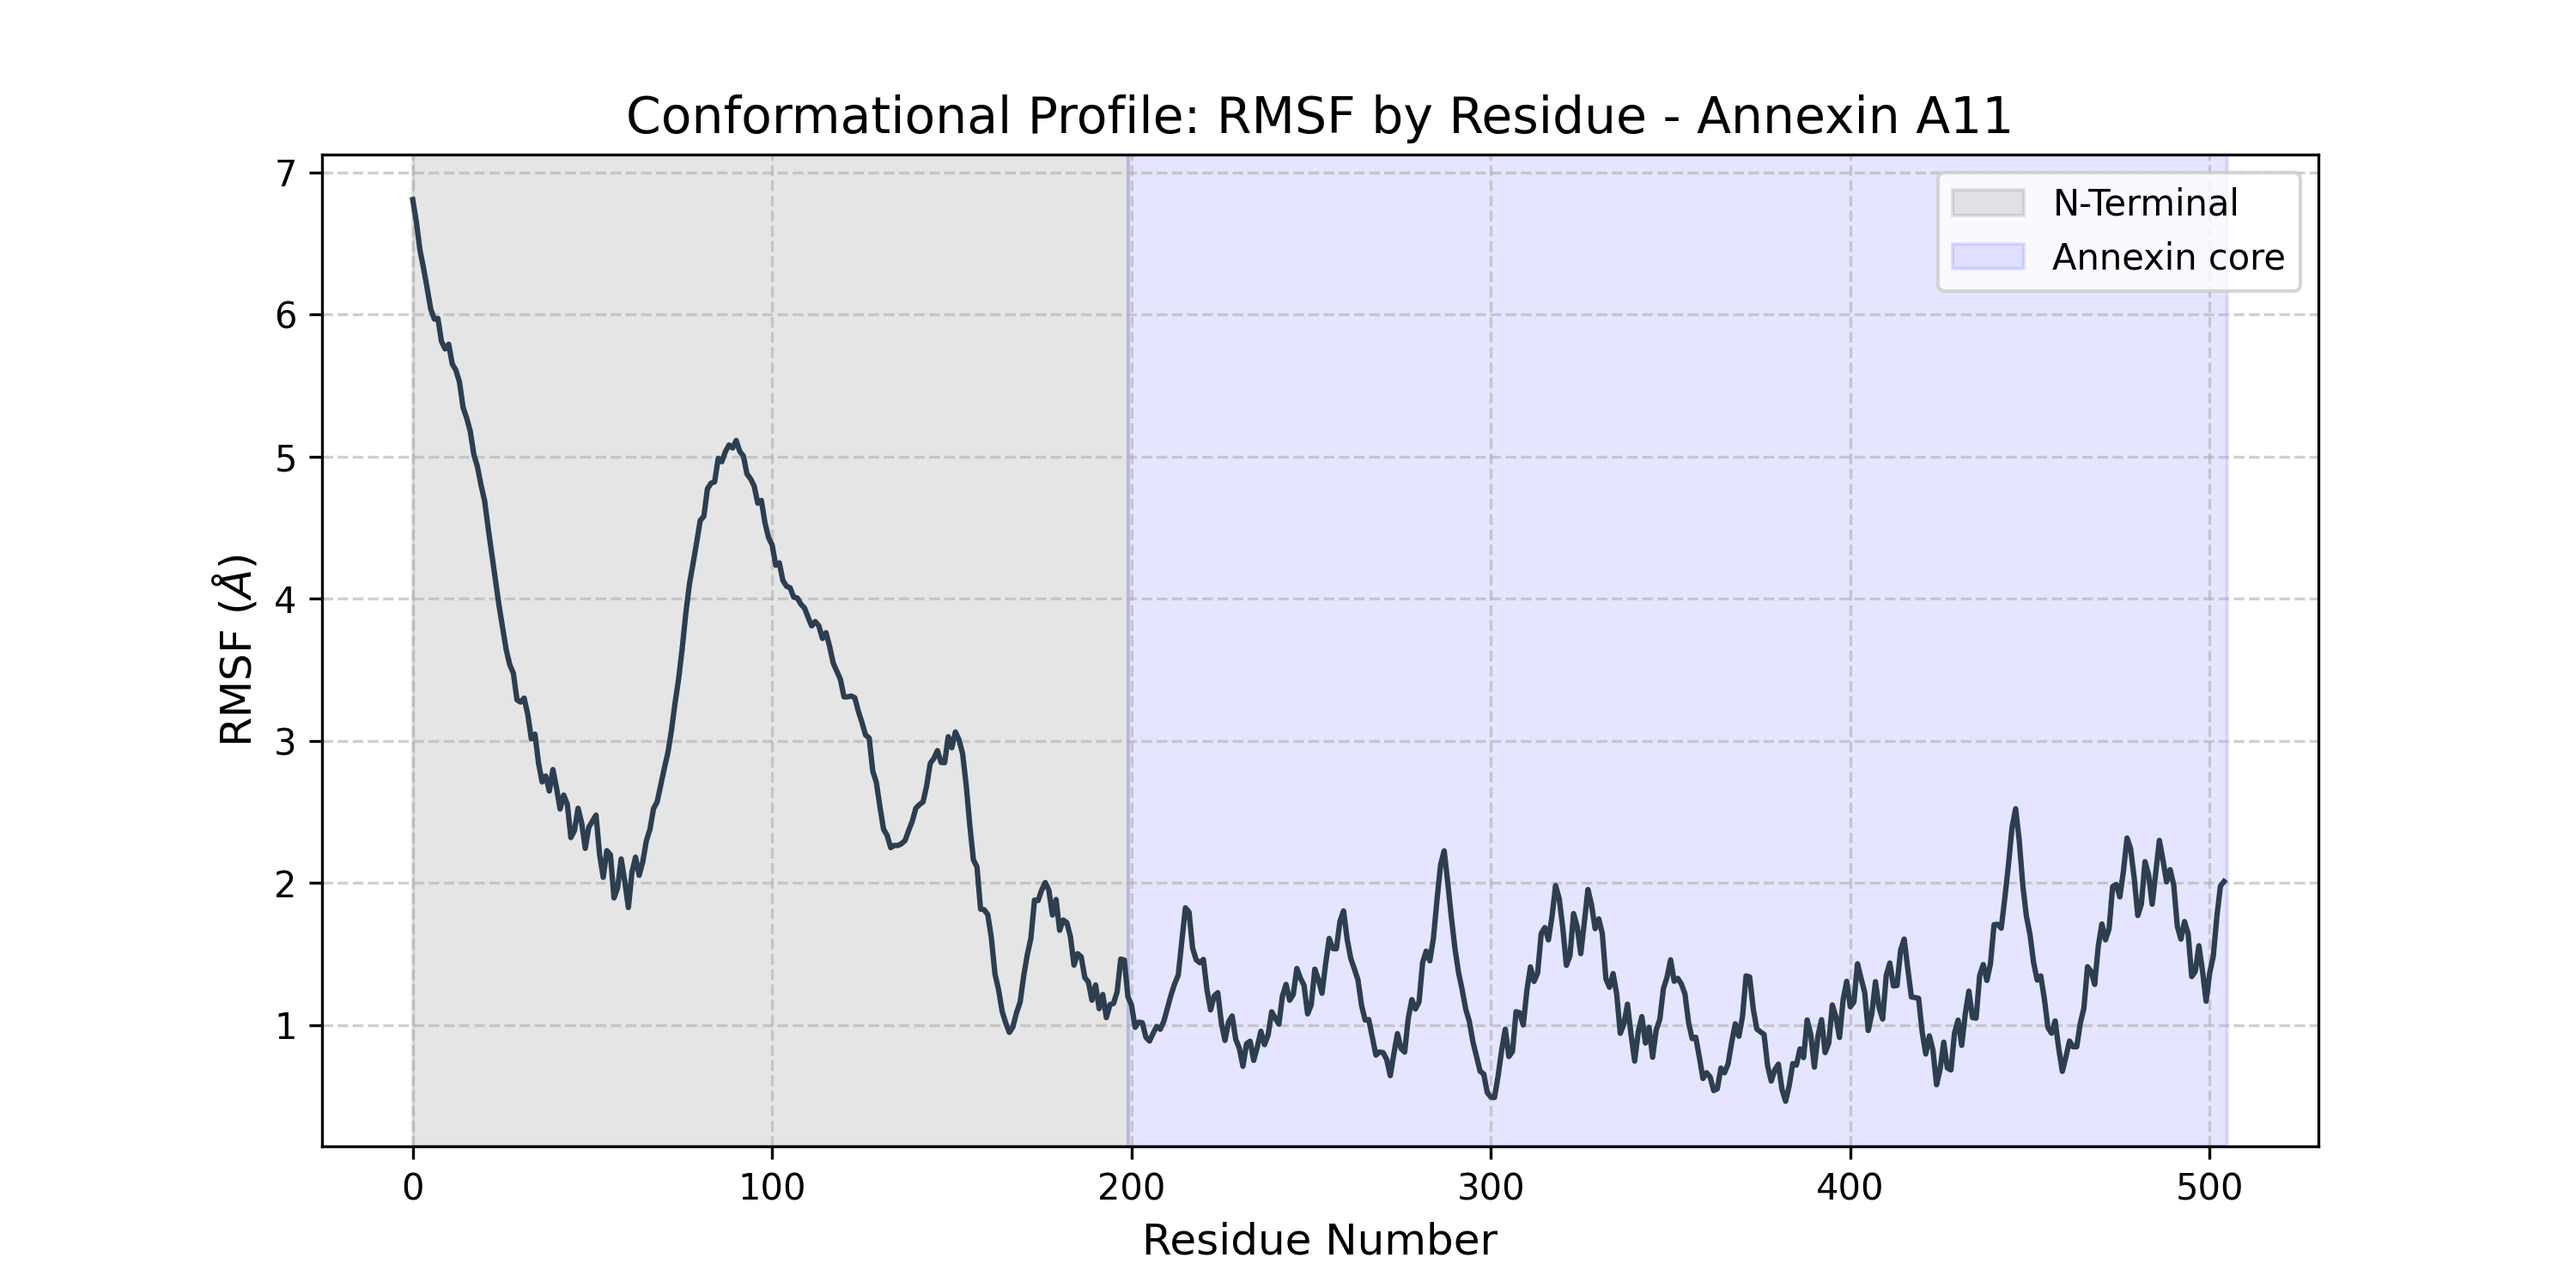
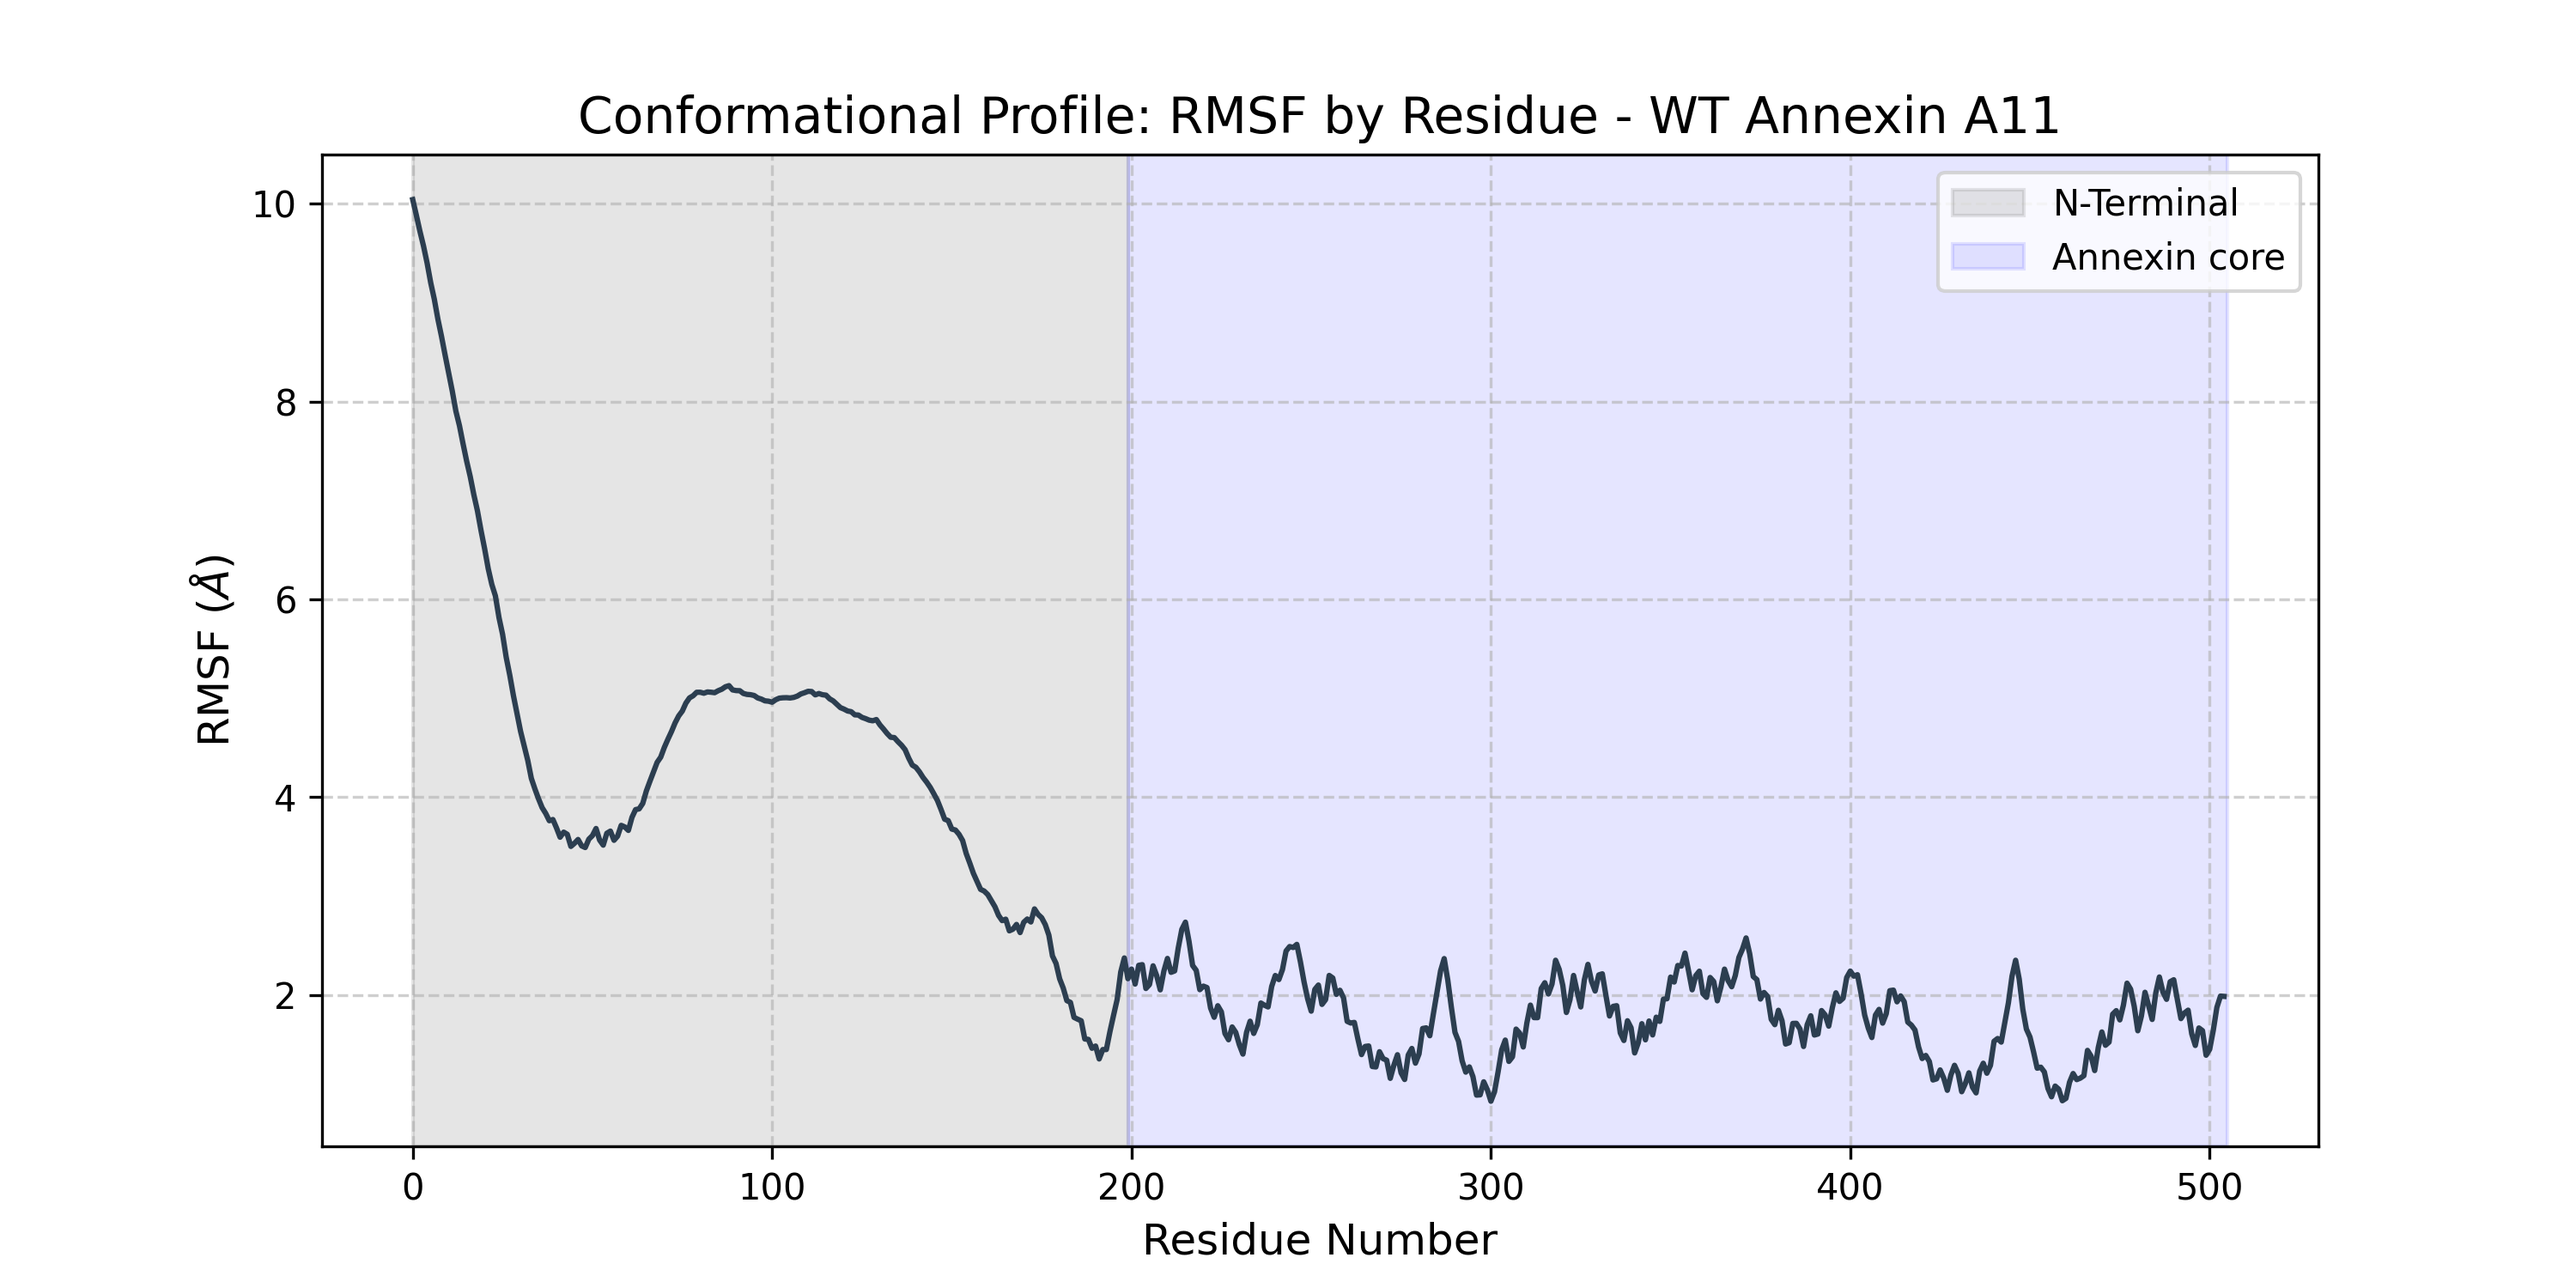
new improves of analysis

diff --git a/main.py b/main.py
@@ -5,30 +5,36 @@ import numpy as np
 
 import matplotlib.pyplot as plt
 
+from sklearn.decomposition import PCA
+
 # for bioemu
 warnings.filterwarnings("ignore", message="Unlikely unit cell vectors detected")
 
 
-traj = md.load('pdbs/samples.xtc', top='pdbs/topology.pdb')
-ca_indices = traj.topology.select('name CA')
+traj = md.load('data/out_native/samples.xtc', top='data/out_native/topology.pdb')
+traj.xyz = traj.xyz / 10.0
+
+ca_indices = traj.topology.select('name CA and resi 0 to 505')
 traj_ca = traj.atom_slice(ca_indices)
-traj_ca.superpose(traj_ca, 0)
+
+core_indices_in_slice = traj_ca.topology.select('resi 199 to 505')
+traj_ca.superpose(traj_ca, 0, atom_indices=core_indices_in_slice)
 fluctuations = md.rmsf(traj_ca, traj_ca, 0)
 
-print(fluctuations.mean())
+print(f"Mean RMSF: {fluctuations.mean()*10} Å")
 
 
 plt.figure(figsize=(10,5))
 #plt.plot(fluctuations, color="#2c3e50", linewidth=1.5)
 
 residue_numbers = range(0, len(fluctuations))
-plt.plot(residue_numbers, fluctuations, color="#2c3e50", linewidth=1.5)
+plt.plot(residue_numbers, fluctuations*10, color="#2c3e50", linewidth=1.5)
 plt.axvspan(0,199, color='gray', alpha=0.2, label='N-Terminal')
 plt.axvspan(199,505, color='blue', alpha=0.1, label='Annexin core')
 plt.legend()
 
 
-plt.title('Conformational Profile: RMSF by Residue - Annexin A11', fontsize=14)
+plt.title('Conformational Profile: RMSF by Residue - WT Annexin A11', fontsize=14)
 plt.xlabel('Residue Number', fontsize=12)
 plt.ylabel('RMSF ($\AA$)', fontsize=12)
 plt.grid(True, linestyle='--', alpha=0.6)
@@ -36,3 +42,31 @@ plt.grid(True, linestyle='--', alpha=0.6)
 plt.savefig('conformational_profile.png', dpi=300)
 plt.show()
 
+
+
+# The MDTraj has shape (n_frames, n_atoms, 3) the PCA needs (n_frame, n_atoms * 3)
+n_frames = traj_ca.xyz.shape[0]
+n_atoms = traj_ca.xyz.shape[1]
+coords = traj_ca.xyz.reshape(n_frames, n_atoms * 3)
+
+pca = PCA(n_components=2)
+reduced_coords = pca.fit_transform(coords)
+
+
+plt.figure(figsize=(8,6))
+plt.scatter(reduced_coords[:, 0], reduced_coords[:, 1], c=range(n_frames),cmap='viridis', alpha=0.6)
+plt.colorbar(label='Frame index')
+plt.title('Conformational Profile: PCA - WT Annexin A11', fontsize=14)
+plt.xlabel(f'PC1 ({pca.explained_variance_ratio_[0]*100:.1f}%)') 
+plt.ylabel(f'PC2 ({pca.explained_variance_ratio_[1]*100:.1f}%)') 
+plt.grid(True, alpha=0.3) 
+plt.savefig('pca_conformational_space.png') 
+plt.show()
+
+
+
+coords = traj_ca.xyz.reshape(n_frames, n_atoms * 3)
+diff = np.linalg.norm(coords[0] - coords[1])
+print(f"Distance between frames 0 and 1: {diff:.6f} nm")
+unique_frames = np.unique(coords.round(decimals=4), axis=0)
+print(f"Number of real unique strutures: {len(unique_frames)}")
